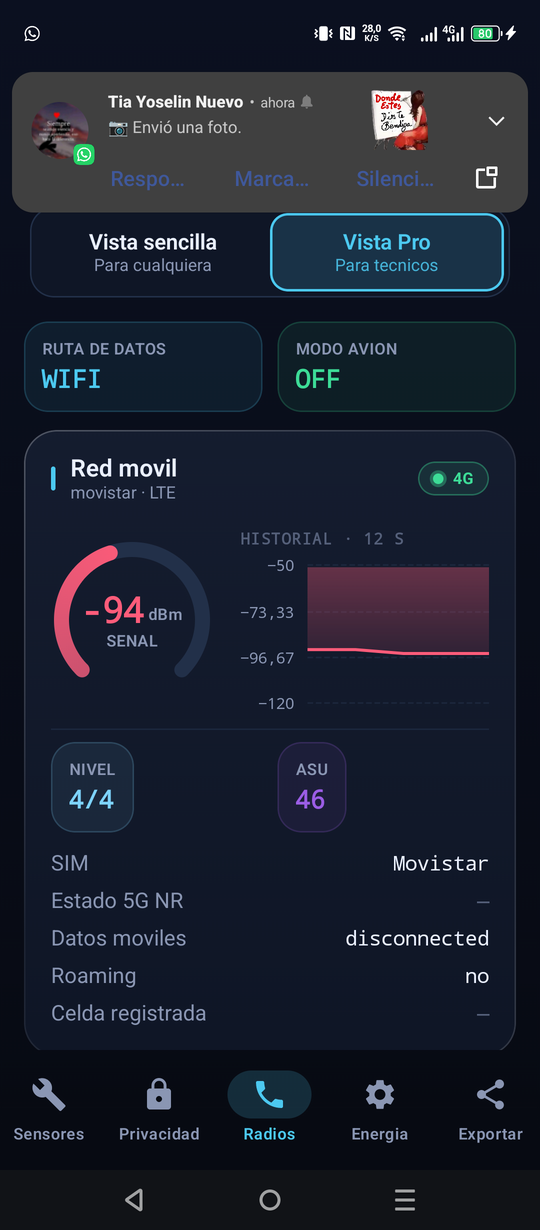
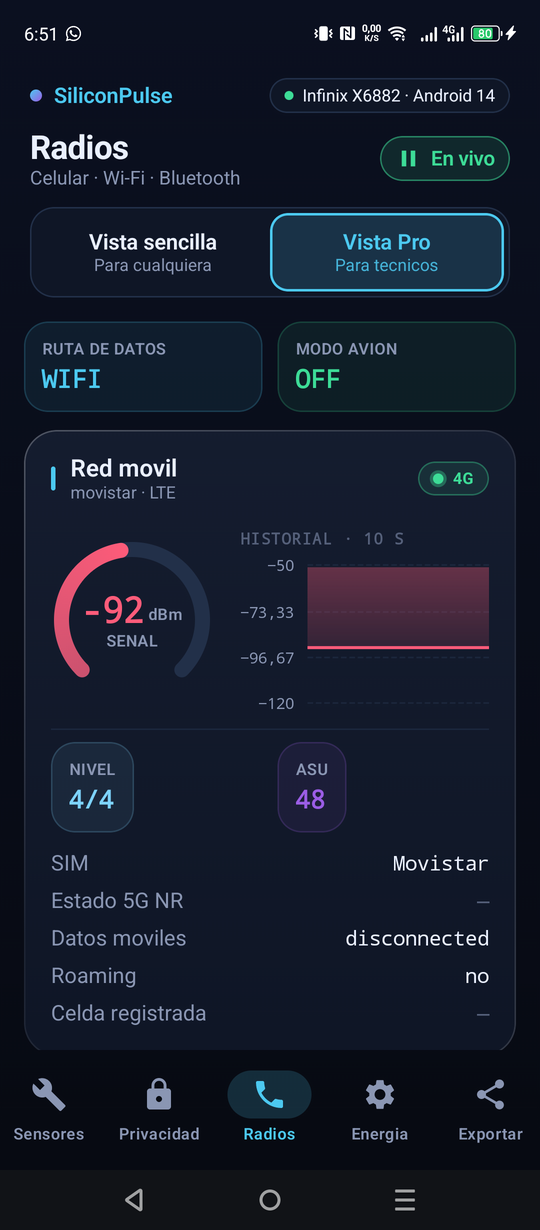
docs: add README, MIT license and light/dark screenshots

diff --git a/README.md b/README.md
@@ -31,15 +31,21 @@ Tiene dos vistas que se cambian con un toque:
 
 ## Capturas
 
-<!-- Sube las capturas a docs/screenshots/ y descomenta -->
-<!--
-<p align="center">
-  <img src="docs/screenshots/simple_home.png" width="200">
-  <img src="docs/screenshots/simple_result.png" width="200">
-  <img src="docs/screenshots/pro_sensors.png" width="200">
-  <img src="docs/screenshots/pro_power.png" width="200">
-</p>
--->
+Tema claro y oscuro automatico. Todas las capturas estan en [`docs/screenshots/`](docs/screenshots/).
+
+### Vista sencilla
+
+| Inicio | Resultado | Enviar a IA |
+|---|---|---|
+| <img src="docs/screenshots/dark_simple_home.png" width="230"> | <img src="docs/screenshots/dark_simple_result.png" width="230"> | <img src="docs/screenshots/dark_simple_send.png" width="230"> |
+| <img src="docs/screenshots/light_simple_home.png" width="230"> | <img src="docs/screenshots/light_simple_result.png" width="230"> | <img src="docs/screenshots/light_simple_send.png" width="230"> |
+
+### Vista Pro
+
+| Sensores | Privacidad | Radios | Energia | Informe |
+|---|---|---|---|---|
+| <img src="docs/screenshots/dark_pro_sensors.png" width="180"> | <img src="docs/screenshots/dark_pro_privacy.png" width="180"> | <img src="docs/screenshots/dark_pro_radios.png" width="180"> | <img src="docs/screenshots/dark_pro_power.png" width="180"> | <img src="docs/screenshots/dark_pro_export.png" width="180"> |
+| <img src="docs/screenshots/light_pro_sensors.png" width="180"> | <img src="docs/screenshots/light_pro_privacy.png" width="180"> | <img src="docs/screenshots/light_pro_radios.png" width="180"> | <img src="docs/screenshots/light_pro_power.png" width="180"> | <img src="docs/screenshots/light_pro_export.png" width="180"> |
 
 ## Funciones
 
